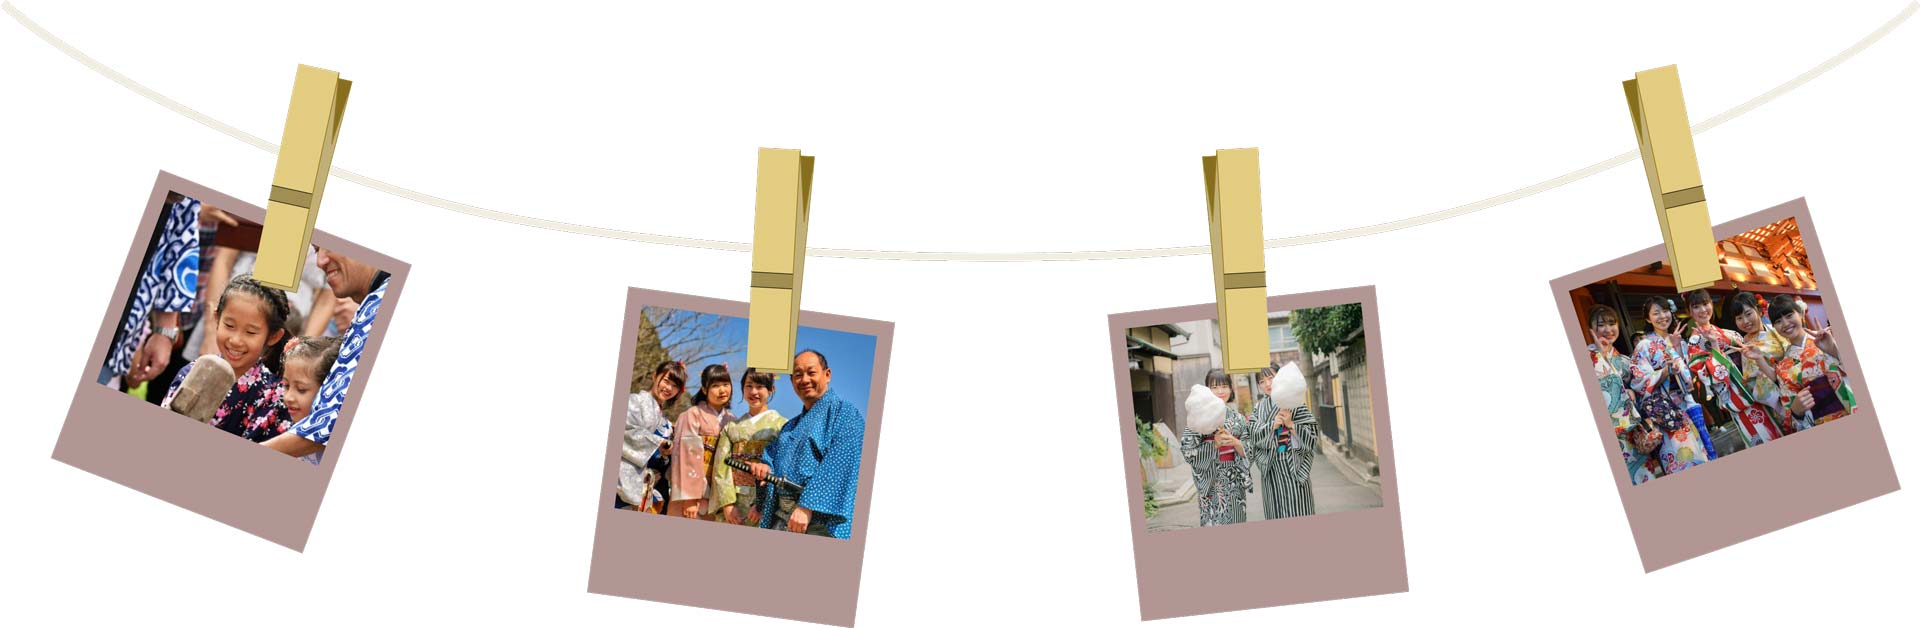
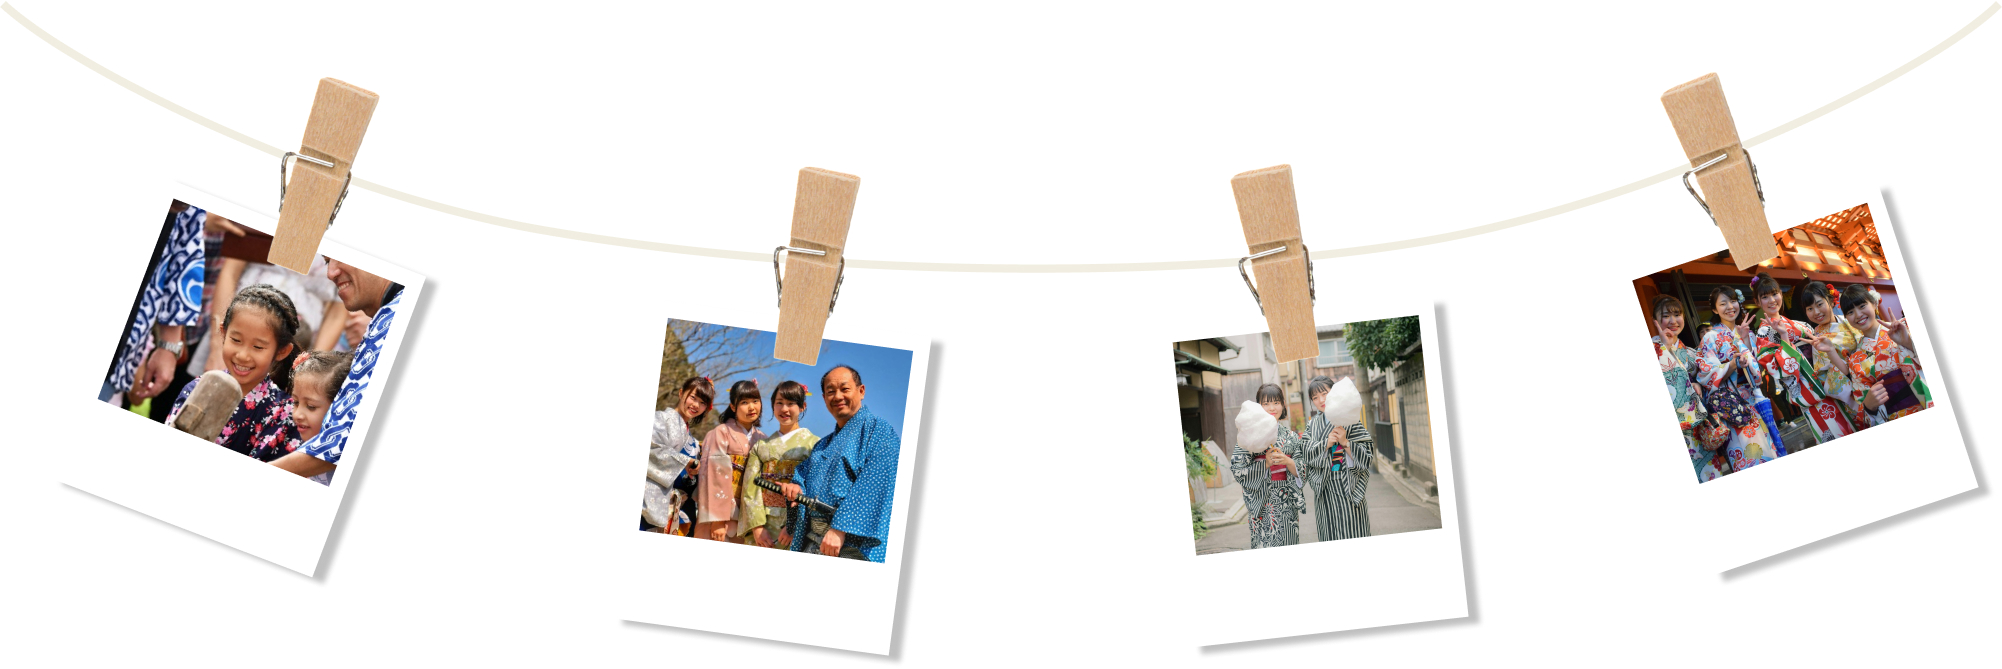
5/30

diff --git a/aboutus-style.css b/aboutus-style.css
@@ -481,22 +481,23 @@ ul {
 }
 
 #polaroid {
-    background-image: url(./images/polaroid.jpg);
-    background-position: bottom;
-    background-size: cover;
     width: 100%;
     height: 500px;
+}
+#polaroid img{
+    width: 75%;
+    /* height: 500px; */
 }
 
 #linear {
     background: linear-gradient(#fff, #F1EEE1);
-    height: 500px;
+    height: 300px;
     display: flex;
     flex-direction: column;
     /* 方向垂直排列 */
     justify-content: center;
     align-items: center;
-    text-align: center;
+    text-align: center; 
     /* 文字置中 */
 }
 

diff --git a/aboutus.html b/aboutus.html
@@ -119,7 +119,9 @@
             </p>
         </div>
 
-        <section id="polaroid"></section>
+        <section id="polaroid">
+            <img src="./images/polaroid.jpg" alt="">
+        </section>
 
         <section id="linear">
             <h1>心靈的感受與體驗，都是最美好的回憶</h1>
